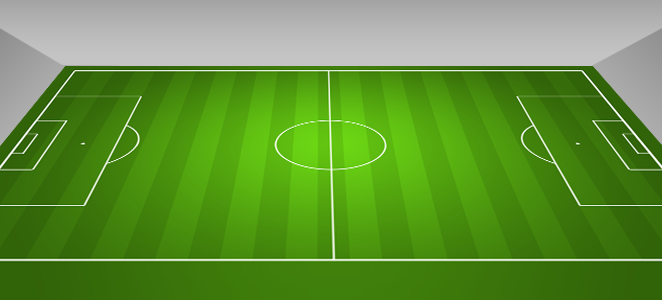
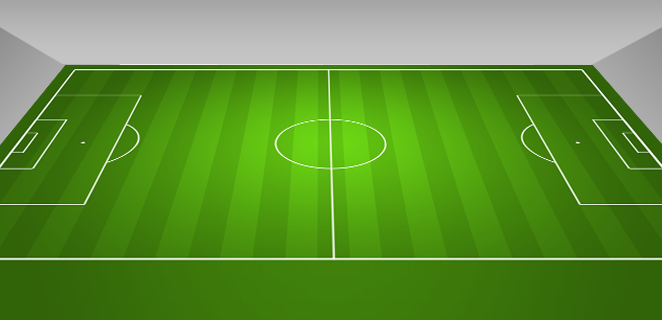
formation- substitutes added

diff --git a/matchcenter/templates/vs_radar.html b/matchcenter/templates/vs_radar.html
@@ -164,7 +164,26 @@
                     {% if player.eleven == 1 %}
                         <li class="{{ player.playerPosition }}">
                             <p>{{ player.playerNameShort }}</p>
-                            <span class="teamcolor-{{ matchInfo.homeTeamId }}" style="background: url('{{ STATIC_URL }}images/jersey{{ matchInfo.homeTeamId }}.png')">{{ player.jerseyNumber }}</span>
+                            <div class="event-area">
+                                {% for event in player.playerEvents %}
+                                    {% if event.eventType == 7 %}
+                                        {% if player.eleven == 0 %}
+                                            {% if event.playerId == player.playerId %}
+                                                <a title="" class="sub-out" id="{{ player.playerId }}-{{ forloop.counter }}"></a>
+                                            {% else %}
+                                                <a title="" class="sub-in" id="{{ player.playerId }}-{{ forloop.counter }}"></a>
+                                            {% endif %}
+                                        {% else %}
+                                            <a title="" class="sub-out" id="{{ player.playerId }}-{{ forloop.counter }}"></a>
+                                        {% endif %}
+                                    {% endif %}
+                                {% endfor %}
+                            </div>
+                            {% if player.playerPosition == "GK" %}
+                                <span style="background: url('{{ STATIC_URL }}images/home_gk_jersey.png'); color: #ffffff" onclick="changePlayerCard({{ currentWeek }},0,{{ player.playerId }},{{ player.jerseyNumber }})">{{ player.jerseyNumber }}</span>
+                            {% else %}
+                                <span class="teamcolor-{{ matchInfo.homeTeamId }}" style="background: url('{{ STATIC_URL }}images/jersey{{ matchInfo.homeTeamId }}.png')" onclick="changePlayerCard({{ currentWeek }},0,{{ player.playerId }},{{ player.jerseyNumber }})">{{ player.jerseyNumber }}</span>
+                            {% endif %}
                         </li>
                     {% endif %}
                 {% endfor %}
@@ -174,7 +193,86 @@
                     {% if player.eleven == 1 %}
                         <li class="{{ player.playerPosition }}">
                             <p>{{ player.playerNameShort }}</p>
-                            <span class="teamcolor-{{ matchInfo.awayTeamId }}" style="background: url('{{ STATIC_URL }}images/jersey{{ matchInfo.awayTeamId }}.png')">{{ player.jerseyNumber }}</span>
+                            <div class="event-area">
+                                {% for event in player.playerEvents %}
+                                    {% if event.eventType == 7 %}
+                                        {% if player.eleven == 0 %}
+                                            {% if event.playerId == player.playerId %}
+                                                <a title="" class="sub-out" id="{{ player.playerId }}-{{ forloop.counter }}"></a>
+                                            {% else %}
+                                                <a title="" class="sub-in" id="{{ player.playerId }}-{{ forloop.counter }}"></a>
+                                            {% endif %}
+                                        {% else %}
+                                            <a title="" class="sub-out" id="{{ player.playerId }}-{{ forloop.counter }}"></a>
+                                        {% endif %}
+                                    {% endif %}
+                                {% endfor %}
+                            </div>
+                            {% if player.playerPosition == "GK" %}
+                                <span style="background: url('{{ STATIC_URL }}images/away_gk_jersey.png'); color: #ffffff" onclick="changePlayerCard({{ currentWeek }},1,{{ player.playerId }},{{ player.jerseyNumber }})">{{ player.jerseyNumber }}</span>
+                            {% else %}
+                                <span class="teamcolor-{{ matchInfo.awayTeamId }}" style="background: url('{{ STATIC_URL }}images/jersey{{ matchInfo.awayTeamId }}.png')" onclick="changePlayerCard({{ currentWeek }},1,{{ player.playerId }},{{ player.jerseyNumber }})">{{ player.jerseyNumber }}</span>
+                            {% endif %}
+                        </li>
+                    {% endif %}
+                {% endfor %}
+            </ul>
+            <ul class="home-team-subs">
+                {% for player in homeSquad %}
+                    {% if player.eleven == 0 %}
+                        <li class="S{{ forloop.counter }}">
+
+                            <div class="event-area">
+                                {% for event in player.playerEvents %}
+                                    {% if event.eventType == 7 %}
+                                        {% if player.eleven == 0 %}
+                                            {% if event.playerId == player.playerId %}
+                                                <a title="" class="sub-out" id="{{ player.playerId }}-{{ forloop.counter }}"></a>
+                                            {% else %}
+                                                <a title="" class="sub-in" id="{{ player.playerId }}-{{ forloop.counter }}"></a>
+                                            {% endif %}
+                                        {% else %}
+                                            <a title="" class="sub-out" id="{{ player.playerId }}-{{ forloop.counter }}"></a>
+                                        {% endif %}
+                                    {% endif %}
+                                {% endfor %}
+                            </div>
+                            {% if player.playPosition == 1 %}
+                                <span style="background: url('{{ STATIC_URL }}images/home_gk_jersey.png'); color: #ffffff" onclick="changePlayerCard({{ currentWeek }},0,{{ player.playerId }},{{ player.jerseyNumber }})">{{ player.jerseyNumber }}</span>
+                            {% else %}
+                                <span class="teamcolor-{{ matchInfo.homeTeamId }}" style="background: url('{{ STATIC_URL }}images/jersey{{ matchInfo.homeTeamId }}.png')" onclick="changePlayerCard({{ currentWeek }},0,{{ player.playerId }},{{ player.jerseyNumber }})">{{ player.jerseyNumber }}</span>
+                            {% endif %}
+
+                            <p>{{ player.playerNameShort }}</p>
+                        </li>
+                    {% endif %}
+                {% endfor %}
+            </ul>
+            <ul class="away-team-subs">
+                {% for player in awaySquad %}
+                    {% if player.eleven == 0 %}
+                        <li class="S{{ forloop.counter }}">
+                            <div class="event-area">
+                                {% for event in player.playerEvents %}
+                                    {% if event.eventType == 7 %}
+                                        {% if player.eleven == 0 %}
+                                            {% if event.playerId == player.playerId %}
+                                                <a title="" class="sub-out" id="{{ player.playerId }}-{{ forloop.counter }}"></a>
+                                            {% else %}
+                                                <a title="" class="sub-in" id="{{ player.playerId }}-{{ forloop.counter }}"></a>
+                                            {% endif %}
+                                        {% else %}
+                                            <a title="" class="sub-out" id="{{ player.playerId }}-{{ forloop.counter }}"></a>
+                                        {% endif %}
+                                    {% endif %}
+                                {% endfor %}
+                            </div>
+                            {% if player.playPosition == 1 %}
+                                <span style="background: url('{{ STATIC_URL }}images/away_gk_jersey.png'); color: #ffffff" onclick="changePlayerCard({{ currentWeek }},1,{{ player.playerId }},{{ player.jerseyNumber }})">{{ player.jerseyNumber }}</span>
+                            {% else %}
+                                <span class="teamcolor-{{ matchInfo.awayTeamId }}" style="background: url('{{ STATIC_URL }}images/jersey{{ matchInfo.awayTeamId }}.png')" onclick="changePlayerCard({{ currentWeek }},1,{{ player.playerId }},{{ player.jerseyNumber }})">{{ player.jerseyNumber }}</span>
+                            {% endif %}
+                            <p>{{ player.playerNameShort }}</p>
                         </li>
                     {% endif %}
                 {% endfor %}
@@ -254,6 +352,48 @@
                 }
             });
         });
+    </script>
+    <script>
+        changePlayerCard =  function(weekid,homeOrAway,playerid,jerseyno){
+            $.post("/api/GetPlayerCard", JSON.stringify({leagueId: 1, seasonId: 9064, weekId: weekid, playerId: playerid})).done(function(data){
+                var info = data.data;
+                var $card = (homeOrAway==0) ? $("#leftPlayerCard") : $("#rightPlayerCard");
+
+                var imageTag = "<img class='teamLogo' src='/static/images/logo"+info.teamId+".png' />";
+                $card.find(".playerName").html(imageTag + info.playerName + " (#"+jerseyno+")");
+                $card.find(".playerImage").attr("src", "/static/images/players/"+playerid+".jpg");
+
+                var $table = $card.find(".card-table");
+                $table.empty();
+                $table.append("<tr><th>İstatistik</th><th>Sezon Ortalaması</th><th>Bu Hafta</th></tr>");
+
+                var statNames = {"passes": "Toplam Pas",
+                    "shotsOnTarget": "İsabetli Şut",
+                    "crosses": "Toplam Orta",
+                    "foulsSuffered": "Maruz Kalınan Faul",
+                    "totalDistance": "Kat Edilen Mesafe",
+                    "yellowCard": "Sarı Kart",
+                    "corners": "Korner",
+                    "redCard": "Kırmızı Kart",
+                    "successfulCross": "İsabetli Orta",
+                    "penalty": "Penaltı",
+                    "assists": "Asist",
+                    "goals": "Gol",
+                    "shots": "Şut",
+                    "foulsCommitted": "Yapılan Faul",
+                    "matchesPlayed": "Oynadığı Maç Sayısı",
+                    "successfulPass": "İsabetli Pas"};
+                _.each(info.statistics, function(value, key){
+                    var statName = statNames[key];
+
+                    var val0 = (value[1]%1==0) ? value[1] : value[1].toFixed(2);
+                    var val1 = (value[0]%1==0) ? value[0] : value[0].toFixed(2);
+                    if(statName!=null){
+                        $table.append("<tr><td>"+statName+"</td><td>"+val0+"</td><td>"+val1+"</td></tr>");
+                    }
+                });
+            });
+        }
     </script>
 
 {% endblock %}

diff --git a/static/css/formations.css b/static/css/formations.css
@@ -1,6 +1,6 @@
 #stadium {
     margin-left: 50px;
-    height: 300px;
+    height: 320px;
     width: 662px;
     background: #000 url("../images/formation_bg.png") no-repeat left top;
     position: relative;
@@ -23,10 +23,28 @@
     height: 191px;
     list-style: none;
 }
+.home-team-subs{
+    margin: 0;
+    left: 0;
+    top: 270px;
+    position: absolute;
+    width: 336px;
+    height: 36px;
+    list-style: none;
+}
+.away-team-subs{
+    margin: 0;
+    right: 0;
+    top: 270px;
+    position: absolute;
+    width: 336px;
+    height: 36px;
+    list-style: none;
+}
 
 .home-team-formation li p, .away-team-formation li p{
     position: absolute;
-    top: 31px;
+    top: 32px;
     left: -12px;
     color: #ffffff;
     font-size: 10px;
@@ -36,8 +54,31 @@
     text-align: center;
     background-color: rgba(0,0,0,0.2);
 }
-.home-team-formation  li.GK span{
-    background: url("../images/stadium_menu_formations_players.png") no-repeat -39px 0;
+.home-team-subs li p, .away-team-subs li p{
+    color: #ffffff;
+    font-size: 10px;
+    width: 100%;
+    height: 12px;
+    line-height: 12px;
+    text-align: center;
+    background-color: rgba(0,0,0,0.2);
+}
+
+.home-team-formation li div.event-area, .away-team-formation li div.event-area{
+    position: absolute;
+    top: 20px;
+    left: 28px;
+    width: 10px;
+    height: 12px;
+    float: left;
+}
+.home-team-subs li div.event-area, .away-team-subs li div.event-area{
+    width: 100%;
+    height: 10px;
+    float: left;
+}
+
+.home-team-formation li span,.away-team-formation li span{
     display: block;
     width: 36px;
     height: 32px;
@@ -45,37 +86,32 @@
     font-size: 12px;
     font-weight: bold;
     line-height: 36px;
+    cursor: pointer;
 }
-.home-team-formation li span{
-    background: url("../images/stadium_menu_formations_players.png") no-repeat 0 0;
+.home-team-subs li span, .away-team-subs li span{
     display: block;
+    margin-left: 4px;
     width: 36px;
     height: 32px;
     text-align: center;
     font-size: 12px;
     font-weight: bold;
-    line-height: 36px;
+    line-height: 16px;
+    cursor: pointer;
 }
-.away-team-formation  li.GK span{
-    background: url("../images/stadium_menu_formations_players.png") no-repeat -78px 0;
-    display: block;
-    width: 36px;
+.home-team-subs li{
+    width: 44px;
+    margin-left: 2px;
     height: 32px;
-    text-align: center;
-    font-size: 12px;
-    font-weight: bold;
-    line-height: 36px;
+    float: left;
 }
-.away-team-formation li span{
-    background: url("../images/stadium_menu_formations_players.png") no-repeat -117px 0;
-    display: block;
-    width: 36px;
+.away-team-subs li{
+    width: 44px;
+    margin-right: 2px;
     height: 32px;
-    text-align: center;
-    font-size: 12px;
-    font-weight: bold;
-    line-height: 36px;
+    float: right;
 }
+
 
 .home-team-formation li.GK {
     left: 16px;
@@ -543,4 +579,68 @@
 }
 .teamcolor-9409{
     color:#ffffff;
+}
+
+.sub-out{
+    background-image: url(../images/sub-out.png);
+    float: left;
+    width: 10px;
+    height: 12px;
+    background-size: cover;
+}
+.sub-in{
+    background-image: url(../images/sub-in.png);
+    float: left;
+    width: 10px;
+    height: 12px;
+    background-size: cover;
+}
+.goal{
+    background-image: url(../images/goal.png);
+    float: left;
+    width: 10px;
+    height: 12px;
+    background-size: cover;
+}
+.own-goal{
+    background-image: url(../images/own-goal.png);
+    float: left;
+    width: 10px;
+    height: 12px;
+    background-size: cover;
+}
+.penalty{
+    background-image: url(../images/penalty.png);
+    float: left;
+    width: 10px;
+    height: 12px;
+    background-size: cover;
+}
+.missed-pen{
+    background-image: url(../images/missed-pen.png);
+    float: left;
+    width: 10px;
+    height: 12px;
+    background-size: cover;
+}
+.yellow{
+    background-image: url(../images/yellow.png);
+    float: left;
+    width: 10px;
+    height: 12px;
+    background-size: cover;
+}
+.second-yellow{
+    background-image: url(../images/second-yellow.png);
+    float: left;
+    width: 10px;
+    height: 12px;
+    background-size: cover;
+}
+.red{
+    background-image: url(../images/red.png);
+    float: left;
+    width: 10px;
+    height: 12px;
+    background-size: cover;
 }
